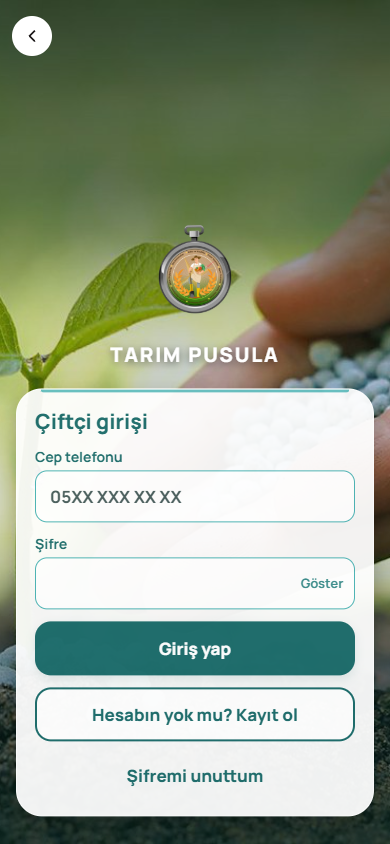
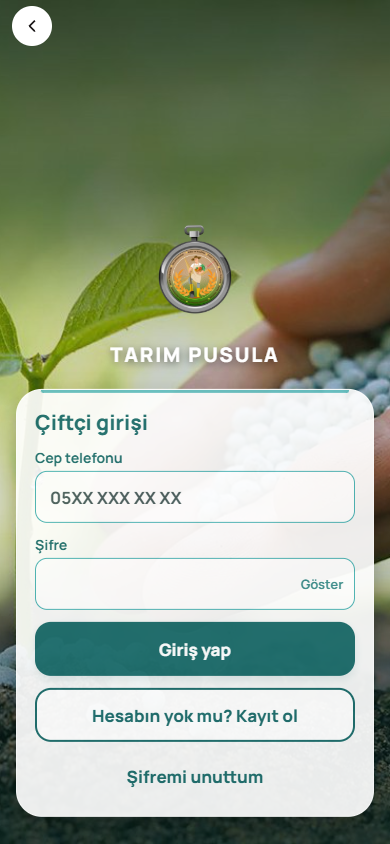
Android klavye: giriş, form ve asistan ekranlarında yazı kutusu klavyenin altında kalmıyor; giriş geri düğmesi saatin altında

diff --git a/apps/mobile/src/components/FlowParts.tsx b/apps/mobile/src/components/FlowParts.tsx
@@ -1,5 +1,5 @@
 import type { ReactNode } from 'react';
-import { Pressable, ScrollView, StyleSheet, Text, View } from 'react-native';
+import { KeyboardAvoidingView, Pressable, ScrollView, StyleSheet, Text, View } from 'react-native';
 import { colors, fontFamily, fontSize, radius, spacing } from '@tarim/ui';
 import { DemoBadge } from './DemoBadge';
 import { Icon, type IconName } from './Icon';
@@ -8,15 +8,22 @@ import { UstBant } from './UstBant';
 /** Akış ekranı gövdesi: zemin rengi, kenar boşluğu, kaydırma. */
 export function FlowScreen({ children, footer }: { children: ReactNode; footer?: ReactNode }) {
   return (
-    <View style={{ flex: 1, backgroundColor: colors.background }}>
-      <ScrollView contentContainerStyle={{ padding: spacing.xl, paddingTop: 0, gap: spacing.md }}>
+    // Klavye açılınca yazı kutusu altta kalmasın (Android kenardan kenara: pencere küçülmez).
+    <KeyboardAvoidingView
+      behavior="padding"
+      style={{ flex: 1, backgroundColor: colors.background }}
+    >
+      <ScrollView
+        keyboardShouldPersistTaps="handled"
+        contentContainerStyle={{ padding: spacing.xl, paddingTop: 0, gap: spacing.md }}
+      >
         <DemoBadge />
         {children}
       </ScrollView>
       {footer ? (
         <View style={{ padding: spacing.xl, paddingTop: 0, gap: spacing.md }}>{footer}</View>
       ) : null}
-    </View>
+    </KeyboardAvoidingView>
   );
 }
 

diff --git a/apps/mobile/src/components/Giris.tsx b/apps/mobile/src/components/Giris.tsx
@@ -3,7 +3,6 @@ import {
   Animated,
   Image,
   KeyboardAvoidingView,
-  Platform,
   Pressable,
   ScrollView,
   StyleSheet,
@@ -53,7 +52,8 @@ export function GirisZemin({
       />
       <KeyboardAvoidingView
         style={[styles.fill, styles.top]}
-        behavior={Platform.OS === 'ios' ? 'padding' : undefined}
+        // Android kenardan kenara çizilir; pencere klavyeyle küçülmez: iki platformda da alttan dolgu.
+        behavior="padding"
       >
         <ScrollView
           contentContainerStyle={[styles.scroll, { paddingTop: Math.max(insets.top, 16) + 8 }]}
@@ -65,7 +65,7 @@ export function GirisZemin({
               accessibilityLabel={tr.flow.back}
               testID="giris-geri"
               onPress={() => (router.canGoBack() ? router.back() : router.replace('/giris'))}
-              style={styles.back}
+              style={[styles.back, { top: insets.top + 6 }]}
             >
               <View style={styles.backCircle}>
                 <Icon name="back" size={20} color={homeColors.text} />
@@ -85,7 +85,7 @@ export function GirisZemin({
               <Hale
                 id="giris-golge-alt"
                 size={logo * 0.9}
-                strength={0.55}
+                strength={0.32}
                 color="#000000"
                 style={{ position: 'absolute', top: logo * 0.62, transform: [{ scaleY: 0.32 }] }}
               />

diff --git a/apps/mobile/src/components/Screen.tsx b/apps/mobile/src/components/Screen.tsx
@@ -1,5 +1,5 @@
 import type { ReactNode } from 'react';
-import { ScrollView, StyleSheet, View } from 'react-native';
+import { KeyboardAvoidingView, ScrollView, StyleSheet, View } from 'react-native';
 import { useSafeAreaInsets } from 'react-native-safe-area-context';
 import { colors, fontFamily, fontSize, homeColors, spacing } from '@tarim/ui';
 import { DemoBadge } from './DemoBadge';
@@ -25,6 +25,7 @@ export function Screen({
   const insets = useSafeAreaInsets();
   const scroll = (
     <ScrollView
+      keyboardShouldPersistTaps="handled"
       style={styles.root}
       contentContainerStyle={[styles.content, { paddingBottom: spacing.xl + insets.bottom }]}
     >
@@ -43,13 +44,14 @@ export function Screen({
       <View pointerEvents="none" style={[styles.statusCover, { height: insets.top }]} />
     ) : null;
   return (
-    <View style={styles.frame}>
+    // Klavye açılınca yazı kutusu altta kalmasın (Android kenardan kenara: pencere küçülmez).
+    <KeyboardAvoidingView behavior="padding" style={styles.frame}>
       {scroll}
       {footer ? (
         <View style={[styles.footer, { paddingBottom: spacing.lg + insets.bottom }]}>{footer}</View>
       ) : null}
       {cover}
-    </View>
+    </KeyboardAvoidingView>
   );
 }
 
